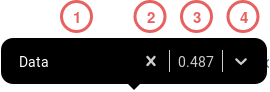
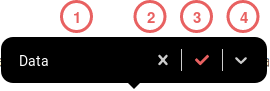
remove the uncertainity from annotation tooltip

diff --git a/src/components/AddPaper/Abstract/AnnotationTootip.js b/src/components/AddPaper/Abstract/AnnotationTootip.js
@@ -13,7 +13,7 @@ class AnnotationTootip extends Component {
 
         this.state = {
             showTooltip: false,
-            isValidatorHover:false
+            isValidatorHover: false
         };
     }
 
@@ -66,19 +66,18 @@ class AnnotationTootip extends Component {
                 <>
                     <components.ClearIndicator {...props} />
                     <components.IndicatorSeparator {...props} />
-                    <div 
-                        title={props.getValue()[0].uncertainty === 0 ? 'This annotation is validated' : 'Validate this annotation'} 
-                        onMouseEnter={this.onMouseEnter} 
-                        onMouseLeave={this.onMouseLeave} 
-                        onClick={() => this.props.handleValidateAnnotation(props.getValue()[0].range_id)} 
+                    <div
+                        title={props.getValue()[0].uncertainty === 0 ? 'This annotation is validated' : 'Validate this annotation'}
+                        onMouseEnter={this.onMouseEnter}
+                        onMouseLeave={this.onMouseLeave}
+                        onClick={() => this.props.handleValidateAnnotation(props.getValue()[0].range_id)}
                         style={props.getStyles('clearIndicator', props)}
                     >
-                        {(this.state.isValidatorHover || props.getValue()[0].uncertainty === 0) && <Icon color={props.getValue()[0].uncertainty === 0 ? 'green' : this.props.theme.orkgPrimaryColor } style={{ margin: '0px 5px' }} icon={faCheck} />}
-                        {!this.state.isValidatorHover && props.getValue()[0].uncertainty !== 0 && <span>{props.getValue()[0].uncertainty.toFixed(3)}</span>}
+                        <Icon color={props.getValue()[0].uncertainty === 0 ? 'green' : this.props.theme.orkgPrimaryColor} style={{ margin: '0px 5px' }} icon={faCheck} />
                     </div>
                 </>
             );
-          };
+        };
 
         let color = '#ffb7b7';
         switch (this.props.range.class.label) {
@@ -110,7 +109,7 @@ class AnnotationTootip extends Component {
                             label: this.props.range.class.label,
                             id: this.props.range.class.id,
                             uncertainty: this.props.range.uncertainty,
-                            range_id:this.props.range.id,
+                            range_id: this.props.range.id,
                         }}
                         getOptionLabel={({ label }) => label}
                         getOptionValue={({ id }) => id}
@@ -122,7 +121,7 @@ class AnnotationTootip extends Component {
                         openMenuOnClick={false}
                         placeholder="Select or Type something..."
                         styles={customStyles}
-                        components={{ ClearIndicator : ClearAndValidatorIndicator }}
+                        components={{ ClearIndicator: ClearAndValidatorIndicator }}
                     />
                 </ReactstrapTooltip>
             </span>

diff --git a/src/components/AddPaper/Abstract/AbstractAnnotator.js b/src/components/AddPaper/Abstract/AbstractAnnotator.js
@@ -250,6 +250,7 @@ class AbstractAnnotator extends Component {
                                 </div>
                             ),
                             style: { borderTop: '4px solid #E86161' },
+                            position: 'right',
                         },
                         {
                             selector: '#uncertaintyOption',
